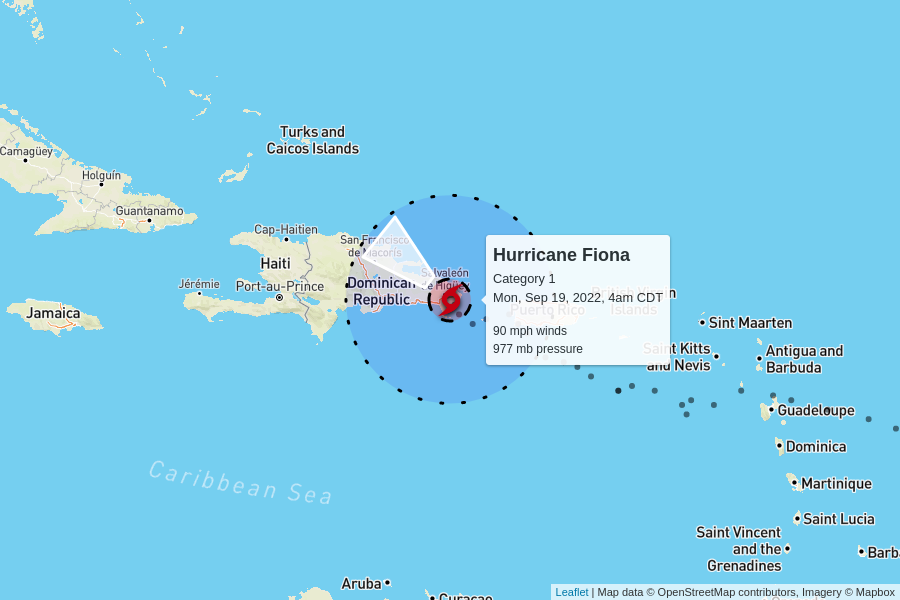
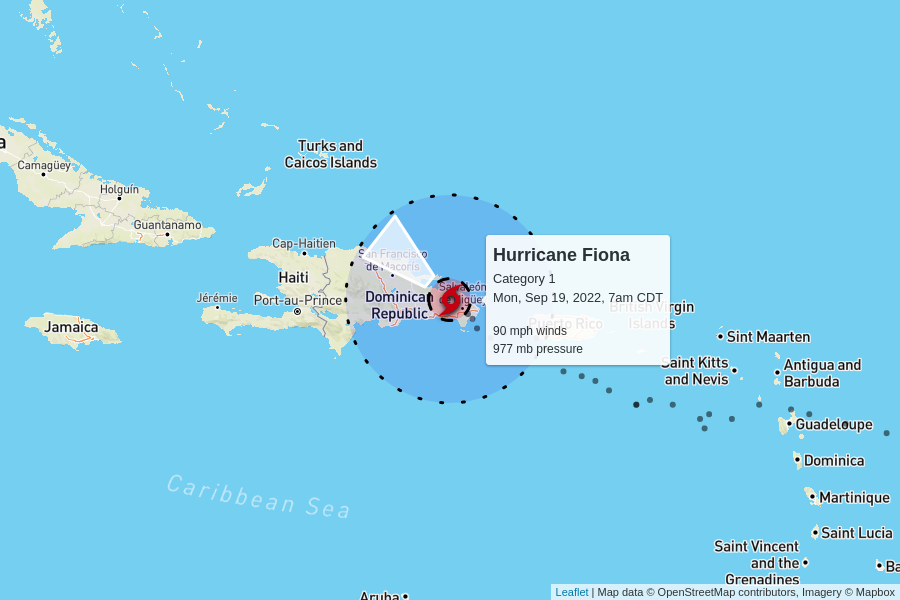
automatic update

diff --git a/docs/index.html b/docs/index.html
@@ -100,7 +100,7 @@
         <td colspan="6" class="storm category-1" >
           <h2>
             Hurricane Fiona - Category 1
-            <p class="updated">last updated <span data-time>2022-09-19T09:00:00.000Z</span></p>
+            <p class="updated">last updated <span data-time>2022-09-19T12:00:00.000Z</span></p>
           </h2>
         </td>
       </tr>
